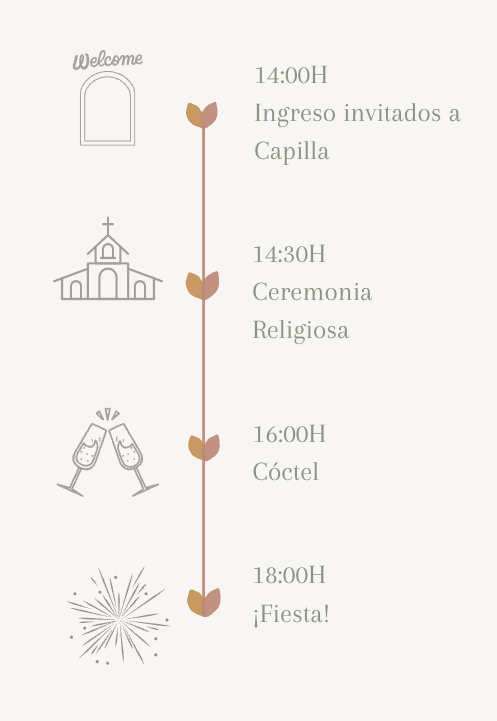
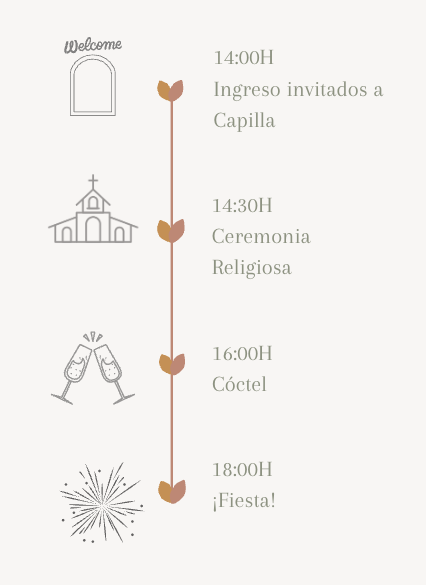
update

diff --git a/src/components/MesaRegalos.js b/src/components/MesaRegalos.js
@@ -18,7 +18,7 @@ const MesaRegalos = () => {
     </div>
     <div className='d-flex text-center justify-content-evenly'>
     <div className='d-flex justify-content-center'>
-        <button style={{padding:"10px", color:"white", width:'100px',border:"none", borderRadius: "40px", background:" #91652f", boxShadow: "inset 5px 5px 10px #91652f,inset -5px -5px 10px #91652f"}}>
+        <button style={{padding:"10px", color:"white", width:'100px',border:"none", borderRadius: "40px", background:"  #91652f", boxShadow: "inset 5px 5px 10px  #91652f,inset -5px -5px 10px #91652f"}}>
         <a className='text-white text-decoration-none' target="_blank" href="https://sinenvolturas.pe/bodadecamufabri">Ir a</a></button>
         </div>
           

diff --git a/src/components/Itinerario.js b/src/components/Itinerario.js
@@ -7,7 +7,7 @@ const Itinerario = () => {
     <div className='d-flex text-center justify-content-evenly p-4'>
         <div className='d-flex flex-column justify-content-center'>
             <div className='itinerario_container text-center ps-5' >
-              <img src="../../images/itinerario.png" alt="itinerario" style={{height:'600px'}}/>
+              <img src="../../images/itinerario.png" alt="itinerario" style={{height:'500px'}}/>
             </div>
          
         </div>
